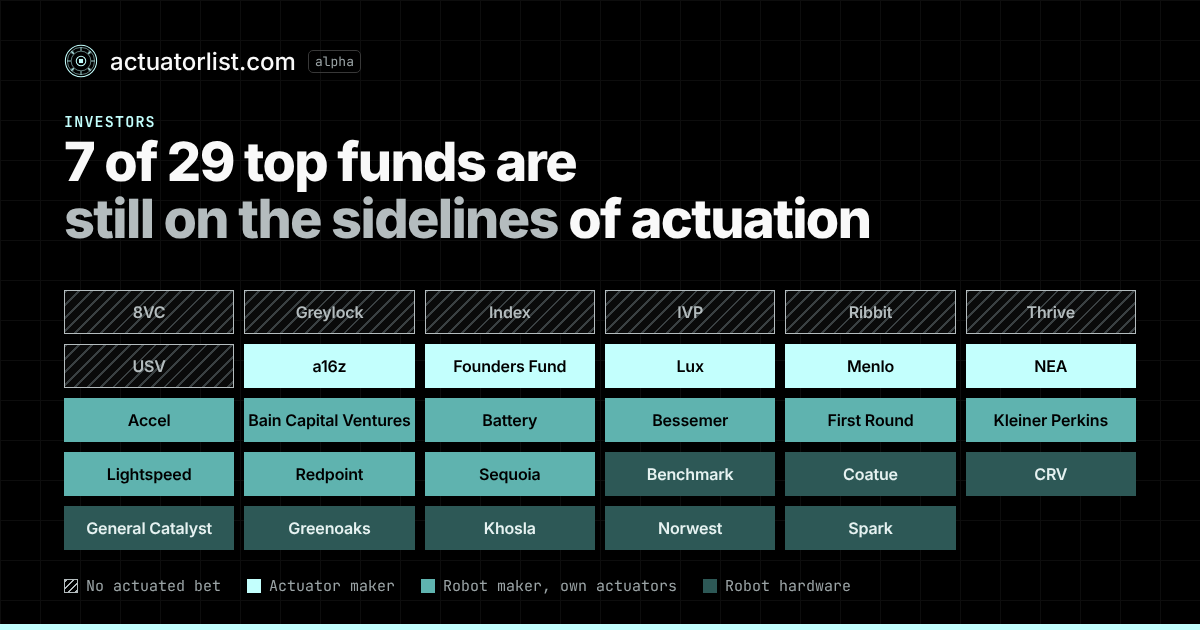
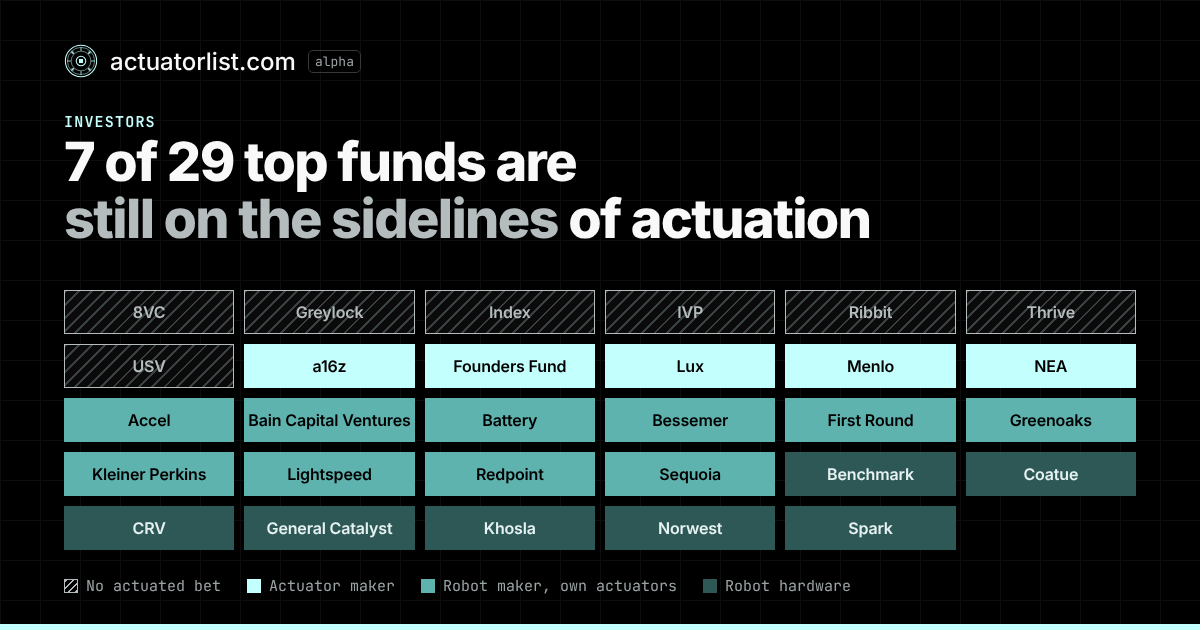
🐛 Verify Mind Robotics deals: add returning investors, firm up actuator claim
Claude-Session: https://claude.ai/code/session_01S4NNNDrf8fHcHhvRRtNshg

diff --git a/src/investors.ts b/src/investors.ts
@@ -44,7 +44,7 @@ export const COMPANIES: Record<string, Company> = {
     mind: {
         name: "Mind Robotics",
         kind: "adj",
-        what: "Rivian-spinout industrial robots; hiring for in-house actuation",
+        what: "Rivian-spinout industrial robots; designs its own actuators",
     },
     robco: {
         name: "RobCo",
@@ -106,7 +106,7 @@ const SRC = {
         "https://techcrunch.com/2024/10/01/palmer-luckey-tried-to-crush-aeronautics-startup-salient-motion-but-anduril-backer-a16z-invested",
     clearmotion:
         "https://globalventuring.com/clearmotion-moves-into-the-light-with-100m",
-    mindA: "https://www.businesswire.com/news/home/20260311414783/en/",
+    mindA: "https://www.businesswire.com/news/home/20260311414783/en/Mind-Robotics-Announces-%24500M-Financing-to-Support-Deployment-of-AI-Powered-Robots-at-Industrial-Scale",
     mind400:
         "https://www.roboticstomorrow.com/news/2026/05/14/mind-robotics-announces-400m-in-new-funding-to-expand-industrial-robotics-deployment/26568/",
     robco: "https://www.therobotreport.com/robco-raises-100m-scale-industrial-automation/",
@@ -165,6 +165,7 @@ export const FUNDS: Fund[] = [
             d("westmag", true, "Seed $11M", 2025, SRC.westmag),
             d("salient", false, "Seed ~$4M", 2024, SRC.salient),
             d("mind", true, "Series A $500M (co-lead)", 2026, SRC.mindA),
+            d("mind", false, "$400M round (returning)", 2026, SRC.mind400),
         ],
     },
     {
@@ -215,7 +216,10 @@ export const FUNDS: Fund[] = [
     },
     {
         name: "Accel",
-        deals: [d("mind", true, "Series A $500M (co-lead)", 2026, SRC.mindA)],
+        deals: [
+            d("mind", true, "Series A $500M (co-lead)", 2026, SRC.mindA),
+            d("mind", false, "$400M round (returning)", 2026, SRC.mind400),
+        ],
     },
     { name: "Redpoint", deals: [d("mind", false, "$400M round", 2026, SRC.mind400)] },
     {
@@ -238,7 +242,13 @@ export const FUNDS: Fund[] = [
         deals: [d("sunday", false, "Series B $165M", 2026, SRC.sunday)],
     },
     { name: "Coatue", deals: [d("sunday", true, "Series B $165M", 2026, SRC.sunday)] },
-    { name: "Greenoaks", deals: [d("botco", true, "$150M round", 2025, SRC.botco)] },
+    {
+        name: "Greenoaks",
+        deals: [
+            d("botco", true, "$150M round", 2025, SRC.botco),
+            d("mind", false, "$400M round (returning)", 2026, SRC.mind400),
+        ],
+    },
     {
         name: "Spark",
         deals: [d("botco", false, "$150M first round", 2024, SRC.botcoSpark)],

diff --git a/src/server/agent/investors.ts b/src/server/agent/investors.ts
@@ -44,5 +44,5 @@ ${mdTable(["Fund", "Company", "Type", "Round", "Role", "Source"], rows)}
 
 ## Method
 
-A fund with no rounds listed means public announcements and press did not name it in an actuator or robot hardware round. Paid databases (PitchBook, Crunchbase) were not checked, so small or undisclosed checks can be missing. "Robot hardware only" covers robot makers where nothing public says they build their own actuators. Mind Robotics counts as building its own actuators on the strength of its actuation and dyno-test job postings. HongShan (formerly Sequoia China) led a round in joint-actuator maker RobStride but has been a separate firm from Sequoia since 2023, so it is not counted.`;
+A fund with no rounds listed means public announcements and press did not name it in an actuator or robot hardware round. Paid databases (PitchBook, Crunchbase) were not checked, so small or undisclosed checks can be missing. "Robot hardware only" covers robot makers where nothing public says they build their own actuators. Mind Robotics counts as building its own actuators on the strength of its job postings for engineers who design and productionize them. HongShan (formerly Sequoia China) led a round in joint-actuator maker RobStride but has been a separate firm from Sequoia since 2023, so it is not counted.`;
 }

diff --git a/frontend/src/pages/Investors.tsx b/frontend/src/pages/Investors.tsx
@@ -185,7 +185,7 @@ export function Investors({ menuOpen = false }: { menuOpen?: boolean }) {
                     actuator maker or a robot hardware company. Paid databases (PitchBook, Crunchbase) were not checked,
                     so small or undisclosed checks can be missing. "Robot hardware only" covers robot makers where nothing
                     public says they build their own actuators. Mind Robotics counts as building its own actuators on the
-                    strength of its actuation and dyno-test job postings. HongShan (formerly Sequoia China) led a round in
+                    strength of job postings for engineers who design and productionize them. HongShan (formerly Sequoia China) led a round in
                     joint-actuator maker RobStride but has been a separate firm from Sequoia since 2023, so it is not
                     counted.
                 </p>
